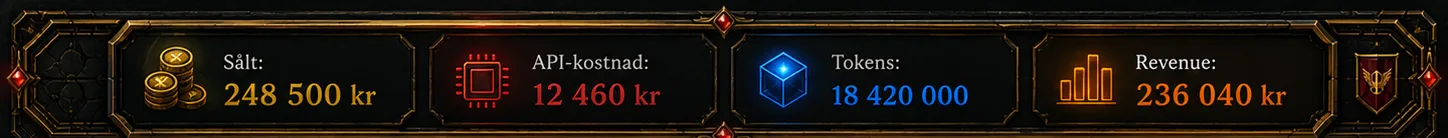
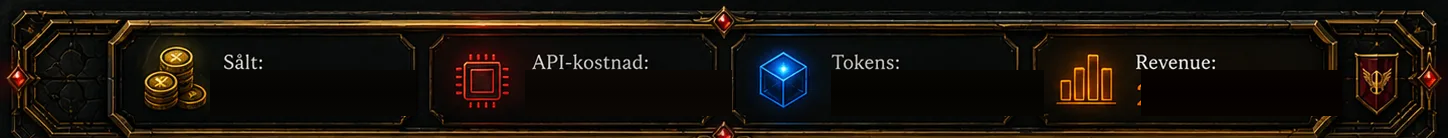
Gor dashboard-siffrorna live (borjar pa 0)
- Malar over de inbakade vardena i topbar.png (etiketterna kvar)
- Lagger riktig text ovanpa ramen, positionerad exakt over varje falt
- Svensk sifferformatering, ratt farg per varde, "kr"-suffix dar det behovs
- window.dashboard.set/setAll/get som API for agenter
- Laser aven assets/data/dashboard.json var 5:e sekund om den finns
- Alla fyra varden startar pa 0 tills agenter uppdaterar dem

Claude-Session: https://claude.ai/code/session_015kz6un1MtHdJ6ZSN9t2GV3

diff --git a/js/ui.js b/js/ui.js
@@ -1,11 +1,68 @@
-// Fäll agent-panelen in/ut. Topbaren och panelen är dina exakta bilder
-// (assets/ui/topbar.png och assets/ui/panel.png).
+// Dashboard: live-värden ovanpå topbar-bilden + fällbar agent-panel.
+//
+// Värdena börjar på 0. Dina AI-agenter kan uppdatera dem på två sätt:
+//   1) Från JS:  window.dashboard.set('sold', 248500)
+//                window.dashboard.setAll({ sold: 248500, apiCost: 12460,
+//                                          tokens: 18420000, revenue: 236040 })
+//   2) Genom att skriva till  assets/data/dashboard.json  (läses var 5:e sek):
+//        { "sold": 0, "apiCost": 0, "tokens": 0, "revenue": 0 }
 
-function setup() {
+const FMT = new Intl.NumberFormat('sv-SE');
+
+const STAT_DEFS = {
+  sold:    { el: 'val-sold',    suffix: ' kr' },
+  apiCost: { el: 'val-apiCost', suffix: ' kr' },
+  tokens:  { el: 'val-tokens',  suffix: '' },
+  revenue: { el: 'val-revenue', suffix: ' kr' },
+};
+
+const state = { sold: 0, apiCost: 0, tokens: 0, revenue: 0 };
+
+function render() {
+  for (const key in STAT_DEFS) {
+    const el = document.getElementById(STAT_DEFS[key].el);
+    if (el) el.textContent = FMT.format(state[key] || 0) + STAT_DEFS[key].suffix;
+  }
+}
+
+function set(key, value) {
+  if (key in state) {
+    state[key] = Number(value) || 0;
+    render();
+  }
+}
+
+function setAll(obj) {
+  if (obj && typeof obj === 'object') {
+    for (const key in state) {
+      if (key in obj) state[key] = Number(obj[key]) || 0;
+    }
+    render();
+  }
+}
+
+// Publikt API för agenter.
+window.dashboard = { set, setAll, get: () => ({ ...state }) };
+
+render();
+
+// Valfri live-koppling: läs assets/data/dashboard.json med jämna mellanrum.
+async function poll() {
+  try {
+    const res = await fetch('assets/data/dashboard.json', { cache: 'no-store' });
+    if (res.ok) setAll(await res.json());
+  } catch (e) {
+    /* ingen datafil ännu – värdena står kvar på 0 */
+  }
+}
+poll();
+setInterval(poll, 5000);
+
+// ---- Fäll agent-panelen in/ut ----
+function setupToggle() {
   const collapse = () => document.body.classList.add('agents-collapsed');
   const expand = () => document.body.classList.remove('agents-collapsed');
   document.getElementById('agentsToggle').addEventListener('click', collapse);
   document.getElementById('agentsReopen').addEventListener('click', expand);
 }
-
-setup();
+setupToggle();

diff --git a/css/style.css b/css/style.css
@@ -28,18 +28,38 @@ html, body {
 }
 #world:active { cursor: grabbing; }
 
-/* ---- Topbar (exakt bild) ---- */
-#topbar {
+/* ---- Topbar (exakt bild) med live-värden ovanpå ---- */
+#topbar-wrap {
   position: fixed;
   top: 0; left: 0;
   width: 100vw;
-  height: auto;
-  display: block;
   z-index: 30;
   user-select: none;
-  -webkit-user-drag: none;
   pointer-events: none;
 }
+#topbar {
+  width: 100%;
+  height: auto;
+  display: block;
+  -webkit-user-drag: none;
+}
+.stat-val {
+  position: absolute;
+  top: 66%;
+  transform: translateY(-50%);
+  white-space: nowrap;
+  font-family: 'Georgia', serif;
+  font-weight: 700;
+  font-size: 2.25vw;
+  line-height: 1;
+  letter-spacing: 0.3px;
+  font-variant-numeric: tabular-nums;
+  text-shadow: 0 1px 3px rgba(0, 0, 0, 0.85);
+}
+#val-sold    { left: 15.0%; color: #e7b64b; }
+#val-apiCost { left: 36.8%; color: #e0564b; }
+#val-tokens  { left: 57.9%; color: #4aa3e6; }
+#val-revenue { left: 79.3%; color: #e79a3a; }
 
 /* ---- Agent-panel (exakt bild) ---- */
 #sidebar {

diff --git a/index.html b/index.html
@@ -10,8 +10,14 @@
   <!-- Karta -->
   <canvas id="world"></canvas>
 
-  <!-- Topbar (din exakta bild) -->
-  <img id="topbar" src="assets/ui/topbar.png" alt="Dashboard" />
+  <!-- Topbar (din exakta bild) med live-värden ovanpå -->
+  <div id="topbar-wrap">
+    <img id="topbar" src="assets/ui/topbar.png" alt="Dashboard" />
+    <span class="stat-val" id="val-sold"></span>
+    <span class="stat-val" id="val-apiCost"></span>
+    <span class="stat-val" id="val-tokens"></span>
+    <span class="stat-val" id="val-revenue"></span>
+  </div>
 
   <!-- Agent-panel (din exakta bild, fällbar) -->
   <aside id="sidebar">
